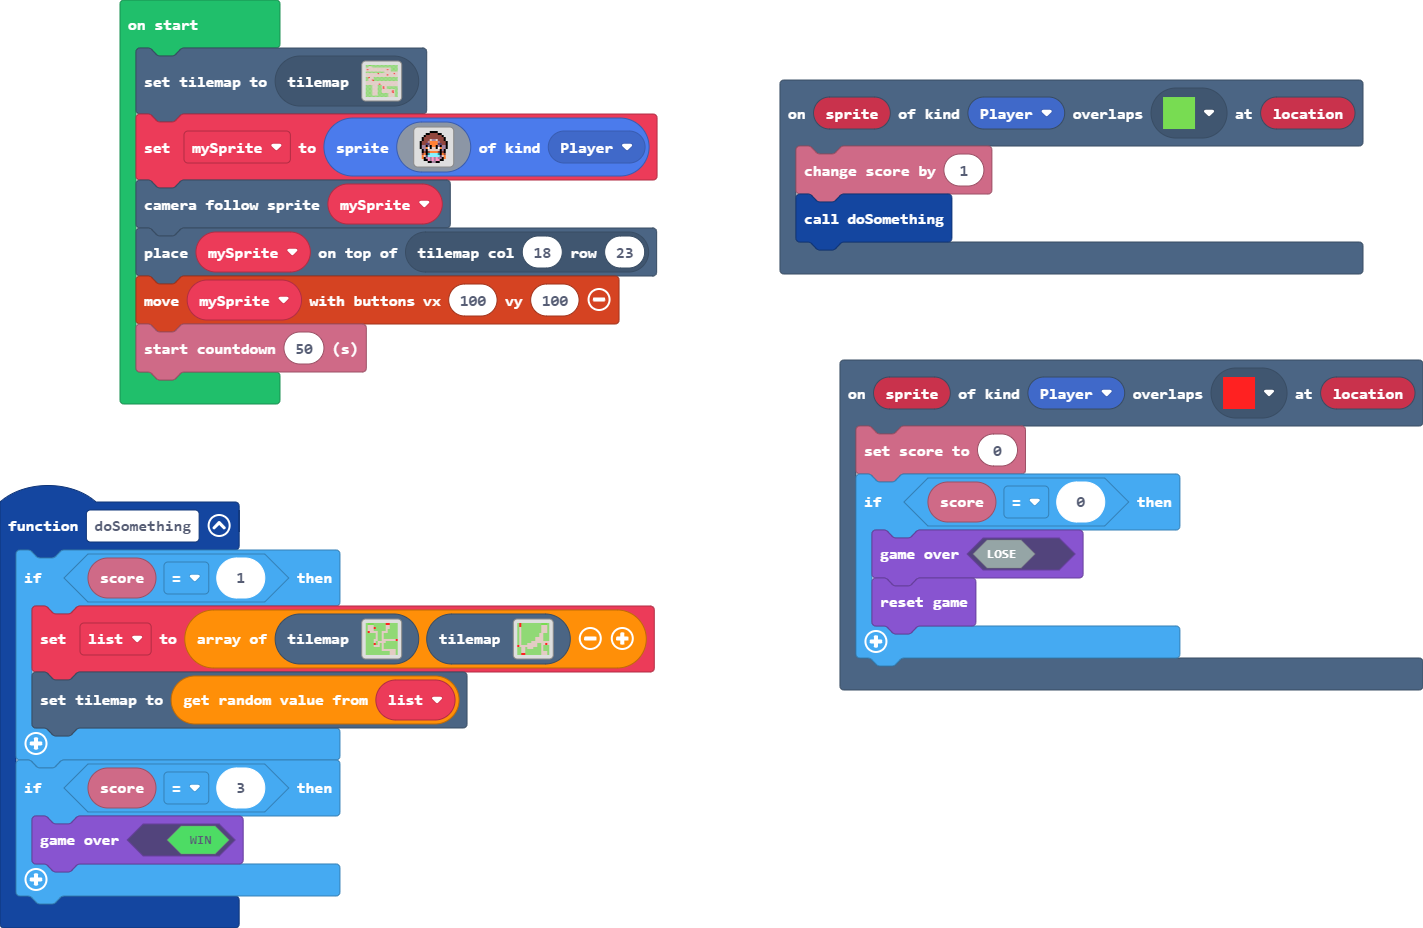
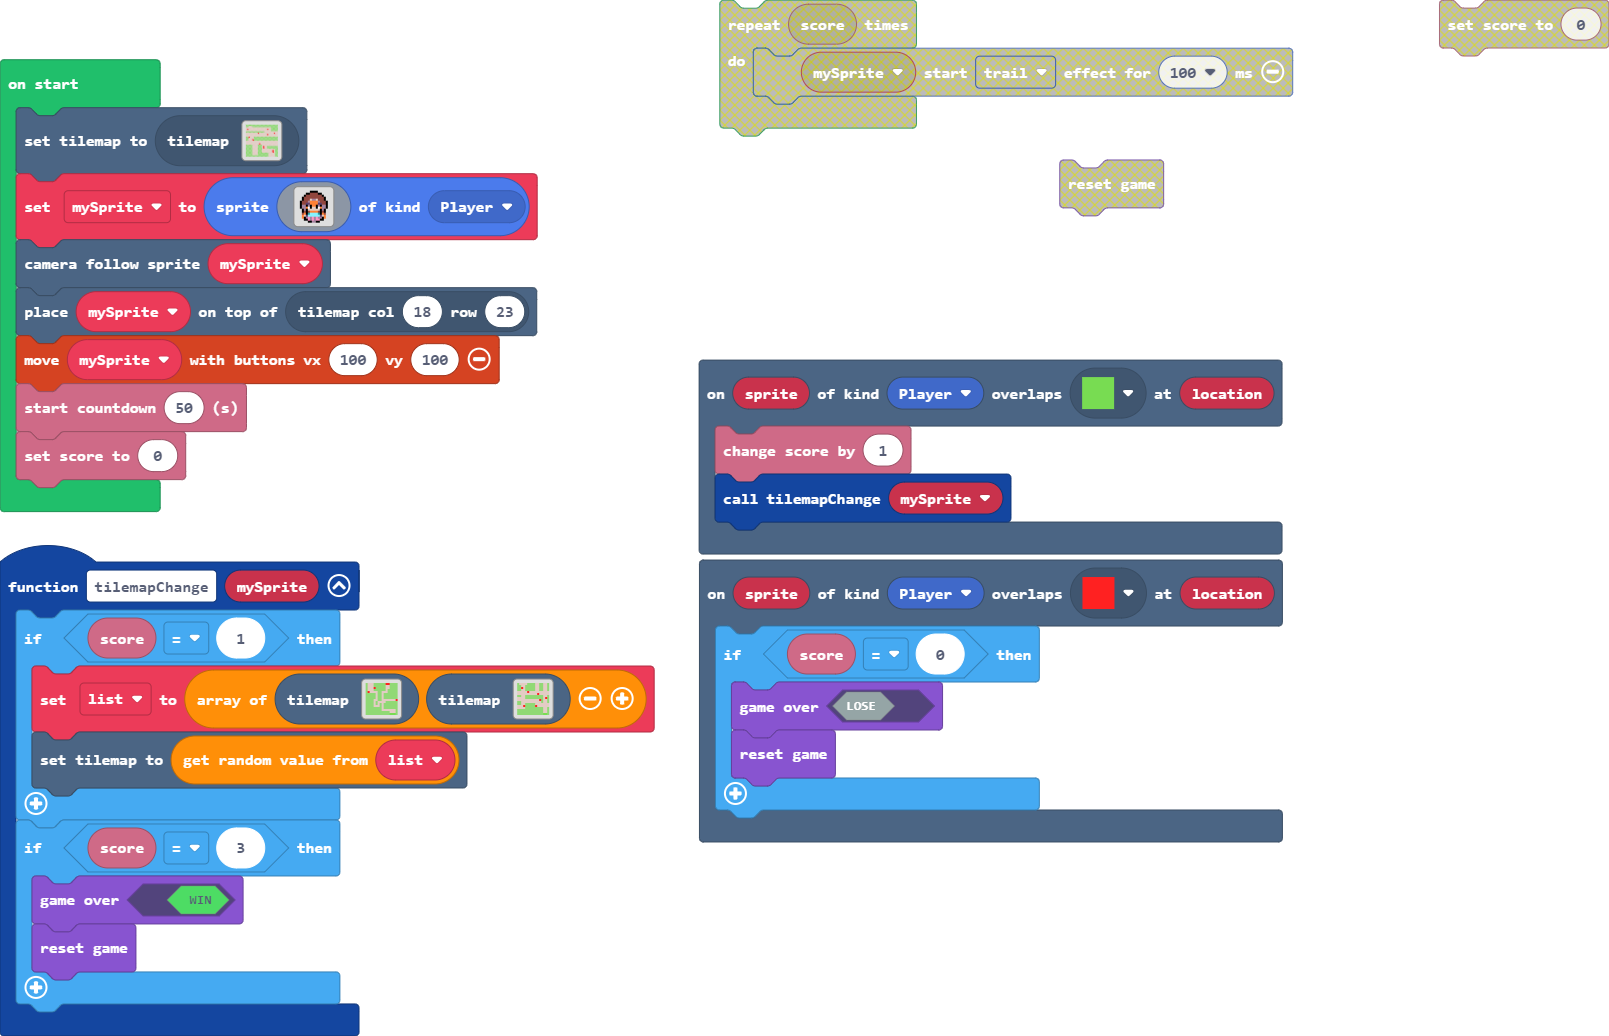
Worked on function and if statement. Added a sprite parameter.

diff --git a/tilemap.g.ts b/tilemap.g.ts
@@ -65,25 +65,6 @@ namespace myTiles {
 . . . . . . . . . . . . . . . . 
 . . . . . . . . . . . . . . . . 
 `, [myTiles.transparency16], TileScale.Sixteen);
-            case "level2":
-            case "level2":return tiles.createTilemap(hex`1000100004030303040404040404010104040404040202020404040404040202040404040402020201040404040402020404040404020202040404040404020404040404040102020202040402020204040404040404040404020404020404040404040404040404040204040204040404040404040404040402040402040404040404040404040402020404020202020202020104040404020402020202040404040404040404040104020402040404040404040404040402020204020404040404040404040404040404040204040404040404040404040404040402020202020202040404040404040404040404040202020404040404040404040404040402020204`, img`
-2 . . . 2 2 2 2 2 2 . . 2 2 2 2 
-2 . . . 2 2 2 2 2 2 . . 2 2 2 2 
-2 . . . . 2 2 2 2 2 . . 2 2 2 2 
-2 . . . 2 2 2 2 2 2 . 2 2 2 2 2 
-2 . . . . . 2 2 . . . 2 2 2 2 2 
-2 2 2 2 2 . 2 2 . 2 2 2 2 2 2 2 
-2 2 2 2 2 . 2 2 . 2 2 2 2 2 2 2 
-2 2 2 2 2 . 2 2 . 2 2 2 2 2 2 2 
-2 2 2 2 . . 2 2 . . . . . . . . 
-2 2 2 2 . 2 . . . . 2 2 2 2 2 2 
-2 2 2 2 . 2 . 2 . 2 2 2 2 2 2 2 
-2 2 2 2 . . . 2 . 2 2 2 2 2 2 2 
-2 2 2 2 2 2 2 2 . 2 2 2 2 2 2 2 
-2 2 2 2 2 2 2 2 . . . . . . . 2 
-2 2 2 2 2 2 2 2 2 2 2 2 . . . 2 
-2 2 2 2 2 2 2 2 2 2 2 2 . . . 2 
-`, [myTiles.transparency16,myTiles.tile1,sprites.castle.tilePath5,myTiles.tile7,sprites.castle.tileGrass2], TileScale.Sixteen);
             case "level5":
             case "level5":return tiles.createTilemap(hex`1000100000000000000000000000000000000000000000000000000000000000000000000000000000000000000000000000000000000000000000000000000000000000000000000000000000000000000000000000000000000000000000000000000000000000000000000000000000000000000000000000000000000000000000000000000000000000000000000000000000000000000000000000000000000000000000000000000000000000000000000000000000000000000000000000000000000000000000000000000000000000000000000000000000000000000000000000000000000000000000000000000000000000000000000000000000000000`, img`
 . . . . . . . . . . . . . . . . 
@@ -104,24 +85,81 @@ namespace myTiles {
 . . . . . . . . . . . . . . . . 
 `, [myTiles.transparency16], TileScale.Sixteen);
             case "level4":
-            case "level4":return tiles.createTilemap(hex`1000100003010303030303030303030302020203030103030303030303030303040404030304030303030303030303030404040303040303030303030303030304040403030403030303030303030303040404030304030303030303030303040403030303040303030303030303030404030303030403030303030303040404040303030304030303030303030404040403030303040303030303040404040404040404030403030304040404040303040401040104040404040404040403030403030303030404030404040303030304030303030304040303030303030303040303030303040403030303030303030404040303030101030303030303030304040403`, img`
-2 . 2 2 2 2 2 2 2 2 2 2 . . . 2 
-2 . 2 2 2 2 2 2 2 2 2 2 . . . 2 
-2 . 2 2 2 2 2 2 2 2 2 2 . . . 2 
-2 . 2 2 2 2 2 2 2 2 2 2 . . . 2 
-2 . 2 2 2 2 2 2 2 2 2 2 . . . 2 
-2 . 2 2 2 2 2 2 2 2 2 . . 2 2 2 
-2 . 2 2 2 2 2 2 2 2 2 . . 2 2 2 
-2 . 2 2 2 2 2 2 2 . . . . 2 2 2 
-2 . 2 2 2 2 2 2 2 . . . . 2 2 2 
-2 . 2 2 2 2 2 . . . . . . . . . 
-2 . 2 2 2 . . . . . 2 2 . . . . 
-. . . . . . . . . . 2 2 . 2 2 2 
-2 2 . . 2 . . . 2 2 2 2 . 2 2 2 
-2 2 . . 2 2 2 2 2 2 2 2 . 2 2 2 
-2 2 . . 2 2 2 2 2 2 2 2 . . . 2 
-2 2 . . 2 2 2 2 2 2 2 2 . . . 2 
-`, [myTiles.transparency16,myTiles.tile1,myTiles.tile7,sprites.castle.tileGrass2,sprites.castle.tilePath5], TileScale.Sixteen);
+            case "level4":return tiles.createTilemap(hex`1000100004020202020404040402020404020204040402020404040404020204040202040404030204040404040202040402020404040202040404040402020404020204020202020203020202020202020202020202020202020202020203020202020204040202040404040404040404020204020202020404040404040404040203040202020202020202020202030402020404040202020202020202020204020204040402020404040404020202020202020202020304040404040302020202020202020202040404040404040404020204040404040404040404040404040202040404040404040404040404040402020404040404040404040404040404010104`, img`
+2 . . . . 2 2 2 2 . . 2 2 . . 2 
+2 2 . . 2 2 2 2 2 . . 2 2 . . 2 
+2 2 . . 2 2 2 2 2 . . 2 2 . . 2 
+2 2 . . 2 2 2 2 2 . . 2 2 . . 2 
+. . . . . . . . . . . . . . . . 
+. . . . . . . . . . . . . . . . 
+2 2 . . 2 2 2 2 2 2 2 2 2 . . 2 
+. . . . 2 2 2 2 2 2 2 2 2 . . 2 
+. . . . . . . . . . . . 2 . . 2 
+2 2 . . . . . . . . . . 2 . . 2 
+2 2 . . 2 2 2 2 2 . . . . . . . 
+. . . . 2 2 2 2 2 . . . . . . . 
+. . . . 2 2 2 2 2 2 2 2 2 . . 2 
+2 2 2 2 2 2 2 2 2 2 2 2 2 . . 2 
+2 2 2 2 2 2 2 2 2 2 2 2 2 . . 2 
+2 2 2 2 2 2 2 2 2 2 2 2 2 . . 2 
+`, [myTiles.transparency16,myTiles.tile7,sprites.castle.tilePath5,myTiles.tile1,sprites.castle.tileGrass2], TileScale.Sixteen);
+            case "level2":
+            case "level2":return tiles.createTilemap(hex`1000100004020202040404040404010104040404040202020404040404040202040404040402020201040404040402020404040404020202040404040404020404040404040102020202040402020204040404040404040404020404020404040404040404040404040204040204040404040404040404040402040402040404040404040404040402020404020202020202020104040404020402020202040404040404040404040204020402040404040404040404040402020204020404040404040404040404040404040204040404040404040404040404040402020202020202040404040404040404040404040202020404040404040404040404040403030304`, img`
+2 . . . 2 2 2 2 2 2 . . 2 2 2 2 
+2 . . . 2 2 2 2 2 2 . . 2 2 2 2 
+2 . . . . 2 2 2 2 2 . . 2 2 2 2 
+2 . . . 2 2 2 2 2 2 . 2 2 2 2 2 
+2 . . . . . 2 2 . . . 2 2 2 2 2 
+2 2 2 2 2 . 2 2 . 2 2 2 2 2 2 2 
+2 2 2 2 2 . 2 2 . 2 2 2 2 2 2 2 
+2 2 2 2 2 . 2 2 . 2 2 2 2 2 2 2 
+2 2 2 2 . . 2 2 . . . . . . . . 
+2 2 2 2 . 2 . . . . 2 2 2 2 2 2 
+2 2 2 2 . 2 . 2 . 2 2 2 2 2 2 2 
+2 2 2 2 . . . 2 . 2 2 2 2 2 2 2 
+2 2 2 2 2 2 2 2 . 2 2 2 2 2 2 2 
+2 2 2 2 2 2 2 2 . . . . . . . 2 
+2 2 2 2 2 2 2 2 2 2 2 2 . . . 2 
+2 2 2 2 2 2 2 2 2 2 2 2 . . . 2 
+`, [myTiles.transparency16,myTiles.tile1,sprites.castle.tilePath5,myTiles.tile7,sprites.castle.tileGrass2], TileScale.Sixteen);
+            case "level6":
+            case "level6":return tiles.createTilemap(hex`1000100000000000000000000000000000000000000000000000000000000000000000000000000000000000000000000000000000000000000000000000000000000000000000000000000000000000000000000000000000000000000000000000000000000000000000000000000000000000000000000000000000000000000000000000000000000000000000000000000000000000000000000000000000000000000000000000000000000000000000000000000000000000000000000000000000000000000000000000000000000000000000000000000000000000000000000000000000000000000000000000000000000000000000000000000000000000`, img`
+. . . . . . . . . . . . . . . . 
+. . . . . . . . . . . . . . . . 
+. . . . . . . . . . . . . . . . 
+. . . . . . . . . . . . . . . . 
+. . . . . . . . . . . . . . . . 
+. . . . . . . . . . . . . . . . 
+. . . . . . . . . . . . . . . . 
+. . . . . . . . . . . . . . . . 
+. . . . . . . . . . . . . . . . 
+. . . . . . . . . . . . . . . . 
+. . . . . . . . . . . . . . . . 
+. . . . . . . . . . . . . . . . 
+. . . . . . . . . . . . . . . . 
+. . . . . . . . . . . . . . . . 
+. . . . . . . . . . . . . . . . 
+. . . . . . . . . . . . . . . . 
+`, [myTiles.transparency16], TileScale.Sixteen);
+            case "level7":
+            case "level7":return tiles.createTilemap(hex`1000100000000000000000000000000000000000000000000000000000000000000000000000000000000000000000000000000000000000000000000000000000000000000000000000000000000000000000000000000000000000000000000000000000000000000000000000000000000000000000000000000000000000000000000000000000000000000000000000000000000000000000000000000000000000000000000000000000000000000000000000000000000000000000000000000000000000000000000000000000000000000000000000000000000000000000000000000000000000000000000000000000000000000000000000000000000000`, img`
+. . . . . . . . . . . . . . . . 
+. . . . . . . . . . . . . . . . 
+. . . . . . . . . . . . . . . . 
+. . . . . . . . . . . . . . . . 
+. . . . . . . . . . . . . . . . 
+. . . . . . . . . . . . . . . . 
+. . . . . . . . . . . . . . . . 
+. . . . . . . . . . . . . . . . 
+. . . . . . . . . . . . . . . . 
+. . . . . . . . . . . . . . . . 
+. . . . . . . . . . . . . . . . 
+. . . . . . . . . . . . . . . . 
+. . . . . . . . . . . . . . . . 
+. . . . . . . . . . . . . . . . 
+. . . . . . . . . . . . . . . . 
+. . . . . . . . . . . . . . . . 
+`, [myTiles.transparency16], TileScale.Sixteen);
         }
         return null;
     })

diff --git a/main.ts b/main.ts
@@ -1,26 +1,27 @@
 scene.onOverlapTile(SpriteKind.Player, assets.tile`myTile`, function (sprite, location) {
-    info.setScore(0)
     if (info.score() == 0) {
         game.gameOver(false)
         game.reset()
     }
 })
-function doSomething () {
+function tilemapChange (mySprite: Sprite) {
     if (info.score() == 1) {
         list = [tilemap`level2`, tilemap`level4`]
         tiles.setCurrentTilemap(list._pickRandom())
     }
     if (info.score() == 3) {
         game.gameOver(true)
+        game.reset()
     }
 }
 scene.onOverlapTile(SpriteKind.Player, assets.tile`myTile5`, function (sprite, location) {
     info.changeScoreBy(1)
-    doSomething()
+    tilemapChange(mySprite)
 })
 let list: tiles.TileMapData[] = []
+let mySprite: Sprite = null
 tiles.setCurrentTilemap(tilemap`level1`)
-let mySprite = sprites.create(img`
+mySprite = sprites.create(img`
     . . . . . f f f f . . . . . 
     . . . f f e e e e f f . . . 
     . . f e e e e e e e e f . . 
@@ -42,3 +43,4 @@ scene.cameraFollowSprite(mySprite)
 tiles.placeOnTile(mySprite, tiles.getTileLocation(18, 23))
 controller.moveSprite(mySprite, 100, 100)
 info.startCountdown(50)
+info.setScore(0)
